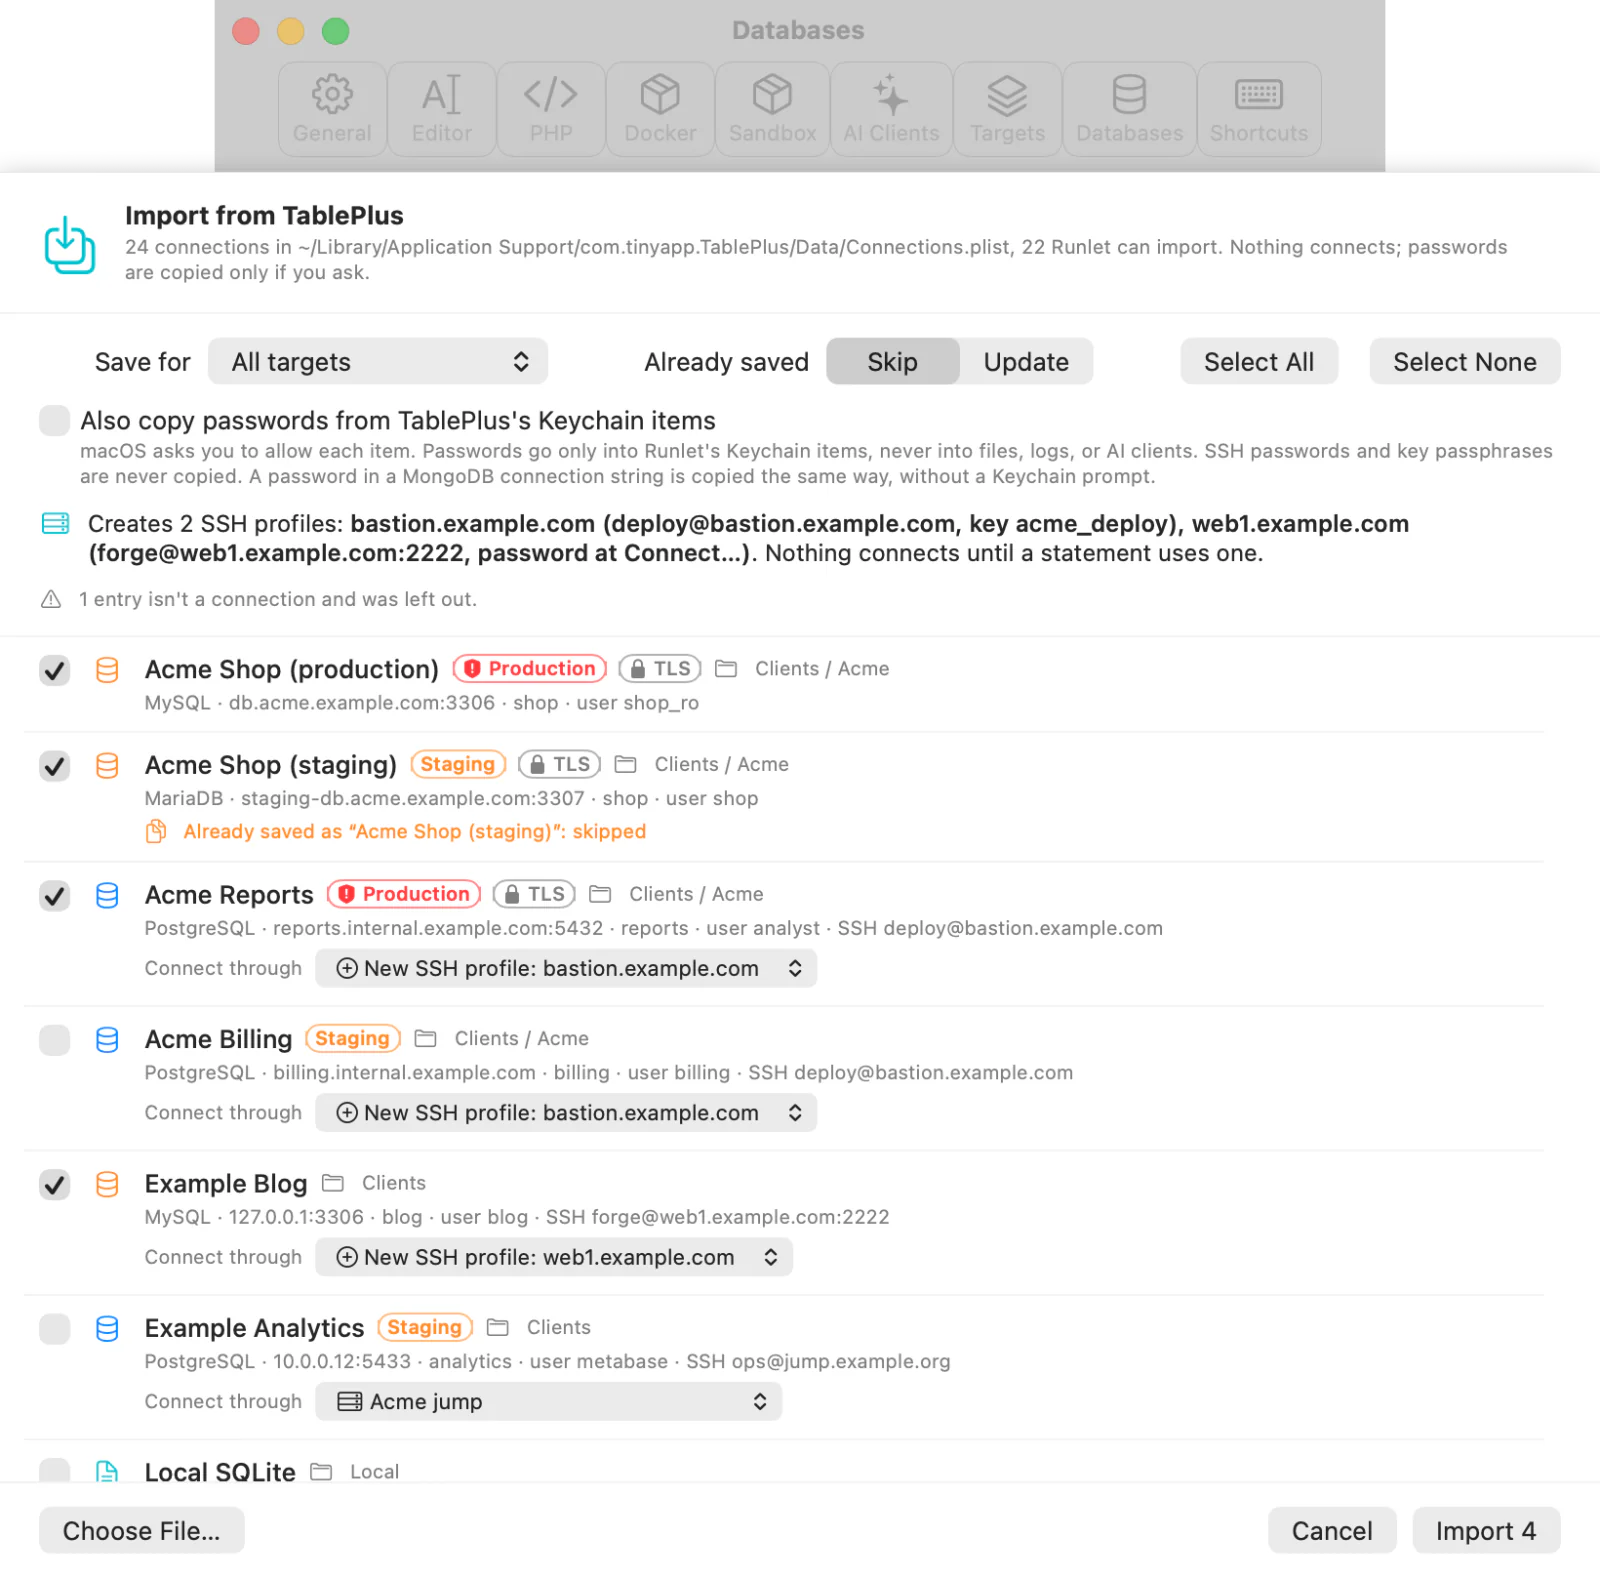
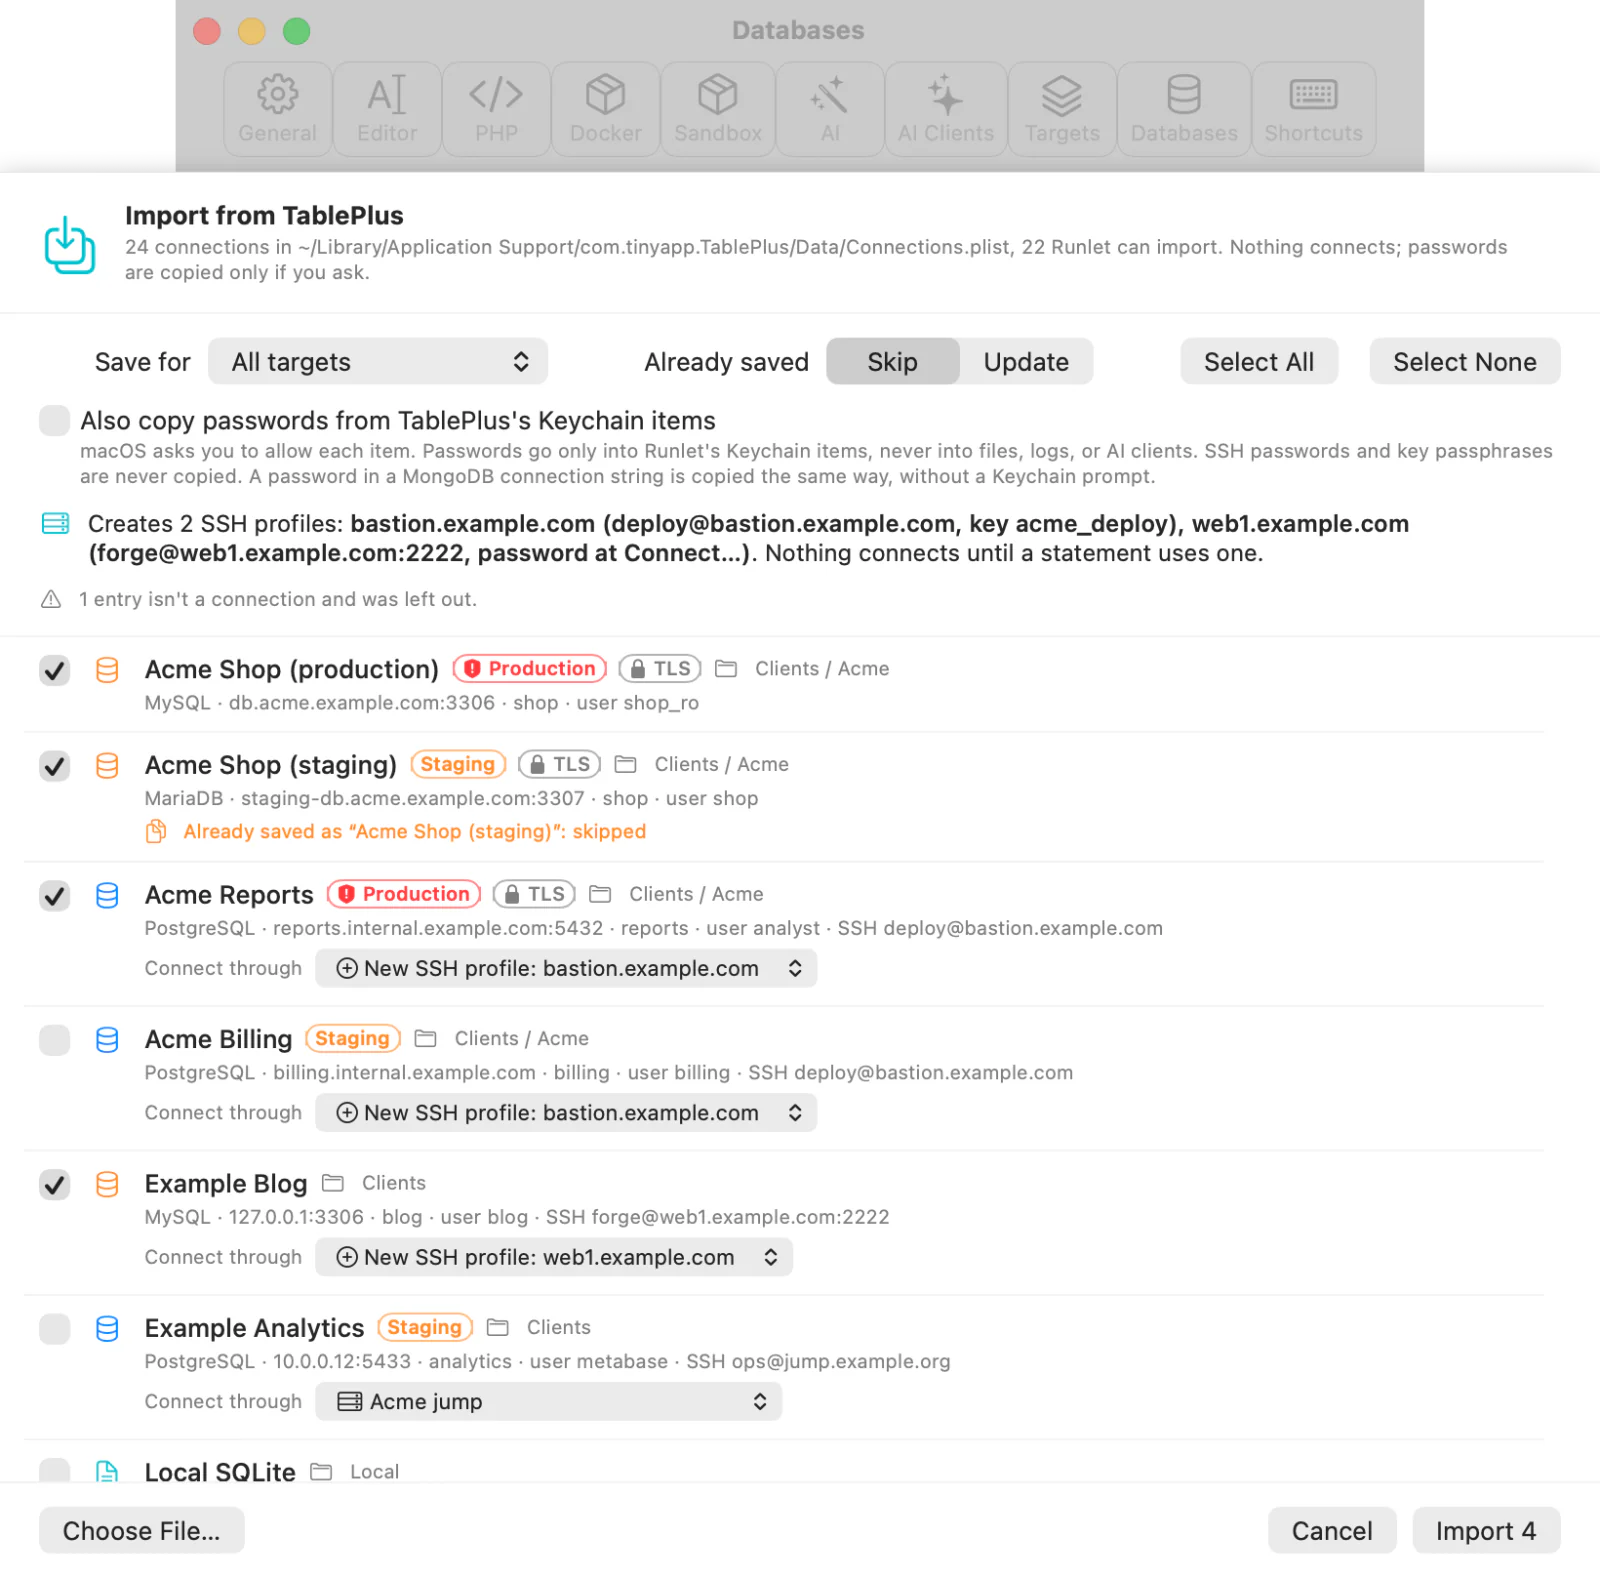
Docs: AI Assistance's screenshots from the AI stand-in, and the Settings shots at the window's new width (#368, #44)

diff --git a/scripts/docs-screenshots.py b/scripts/docs-screenshots.py
@@ -26,7 +26,9 @@ config; their one SSH profile (a production target, for the confirmation sheet a
 is never run. Fixture shots reach the containers through Tests/Fixtures/docker/fixtures-only-docker
 and the fixture SSH host through a throwaway key and config; the script seeds Redis database 11
 and the MongoDB database docs_shop with example data, and removes them, the key, and the SSH
-connections when it ends (PREPARE).
+connections when it ends (PREPARE). The AI Assistance shots talk to the AI providers' stand-in
+(scripts/ai_stub.py: Tests/Fixtures/ai-stub/router.php under `php -S` on 127.0.0.1, which the
+shot starts and stops), never to Anthropic or OpenAI, with a made-up key kept in memory.
 
 Needs Xcode, PHP, cwebp (brew install webp), scripts/build-sandbox.sh to have run, and a Retina
 screen: the `shot` step moves each hidden window there, at its shot's size, before drawing it, and
@@ -51,6 +53,8 @@ import threading
 import time
 from typing import Callable
 import uuid
+
+import ai_stub  # the AI providers' stand-in (#368), shared with scripts/ai-screenshots.py
 
 ROOT = Path(__file__).resolve().parent.parent
 WORK = ROOT / "build" / "docs-shots"
@@ -159,10 +163,11 @@ class Shot:
     about: str = ""
     #: More environment variables for the launch; `{data}` is the shot's data folder.
     env: dict = field(default_factory=dict)
-    #: Started before the launch and stopped after it, such as a client the picture shows.
-    background: Callable[[], subprocess.Popen] | None = None
-    #: The tab Settings opens on (0 is General, 5 AI, 8 Databases, 9 Shortcuts): the launch arguments hold it, so
-    #: the `settings-tab` step can't switch tabs.
+    #: Started before the launch and stopped after it (`kill()`, `wait()`), such as a client the
+    #: picture shows, a local API, or the AI providers' stand-in.
+    background: Callable[[], subprocess.Popen | ai_stub.Stub] | None = None
+    #: The tab Settings opens on (0 is General, 5 AI, 8 Databases, 9 Shortcuts): the launch
+    #: arguments hold it, so the `settings-tab` step can't switch tabs. Settings is 640 points wide.
     settings_tab: int = 0
 
     @property
@@ -801,7 +806,7 @@ SHOTS: list[Shot] = [
     # Settings
     Shot("settings", "general", about="Settings ▸ General: Appearance, Running, and Notifications",
          tabs=[tab("Scratch", "")], window="General",
-         steps=["settings", "wait", "settings-tab:General", "wait", "frame:General=600x760", "wait"]),
+         steps=["settings", "wait", "settings-tab:General", "wait", "frame:General=640x760", "wait"]),
     # SSH (ssh.md): a profile in the Profiles window, with Keep the runner and compiled PHP on the server (#48).
     Shot("ssh", "profile-editor", about="An SSH profile in the Profiles window: the form, and Keep the runner and compiled PHP on the server",
          tabs=[tab("Scratch", "")], targets=SSH_PROFILE_TARGETS, window="Profiles",
@@ -809,8 +814,8 @@ SHOTS: list[Shot] = [
     Shot("run-notifications", "notifications", about="Settings ▸ General ▸ Notifications, allowed",
          tabs=[tab("Scratch", "")], window="General", settings={"notifyLongRuns": True, "longRunNotificationSeconds": 10},
          # Tall enough not to scroll (the toolbar would show the scrolled text), then the section only.
-         steps=["notifications:allowed", "settings", "wait", "settings-tab:General", "wait", "frame:General=600x1000", "wait"],
-         crop=(0, 462, 600, 228)),
+         steps=["notifications:allowed", "settings", "wait", "settings-tab:General", "wait", "frame:General=640x1000", "wait"],
+         crop=(0, 462, 640, 228)),
     # Quick Run (#25): the panel on its own, shown without the keyboard; the global shortcut is
     # never registered in these runs. `\n` in typed code is a newline, `\c` a comma.
     Shot("quick-run", "result", about="The Quick Run panel with a user in the Values view",
@@ -821,8 +826,49 @@ SHOTS: list[Shot] = [
          steps=["quick-run:open", "wait", f"quick-run:type:{QUICK_RUN_ERROR}", "quick-run:key:cmd+r", "quick-run-wait", "wait"]),
     Shot("settings", "quick-run-shortcut", about="Settings ▸ Shortcuts: Quick Run's global shortcut, on (never registered)",
          tabs=[tab("Scratch", "")], window="Shortcuts", settings={"quickRunHotKeyEnabled": True}, settings_tab=9,
-         steps=["settings", "wait", "frame:Shortcuts=600x520", "wait", "quick-run:hotkey-state"],
-         crop=(0, 0, 600, 158)),
+         steps=["settings", "wait", "frame:Shortcuts=640x520", "wait", "quick-run:hotkey-state"],
+         crop=(0, 0, 640, 158)),
+]
+
+# MARK: AI Assistance (#368, #44)
+#
+# Settings ▸ AI and Explain or Fix This Error, against the AI providers' stand-in on 127.0.0.1
+# (ai_stub.Stub: canned answers, never Anthropic or OpenAI) with a made-up key in memory. The tab
+# runs in the local project "shop" (a copy of the sandbox) with a class that throws, so the sheet
+# offers the source where it was thrown. The sheet shots draw the sheet alone (`@sheet`): the
+# error card behind it shows the project's full path.
+
+AI_SETTINGS_PORT = free_port()
+AI_FIX_PORT = free_port()
+
+
+def ai_stand_in(port: int, scenario: dict) -> Callable[[], ai_stub.Stub]:
+    """The stand-in for one shot, on its own port, so shots can run in parallel."""
+    return lambda: ai_stub.Stub(WORK / f"ai-stub-{port}", scenario, port=port)
+
+
+def ai_env(port: int) -> dict:
+    return {"RUNLET_AI_BASE_URL": f"http://127.0.0.1:{port}", "RUNLET_DEBUG_HOME": "{data}"}
+
+
+def ai_seed(data: Path, sandbox: Path) -> None:
+    shop_targets(data)
+    ai_stub.seed_project(data / "projects" / "shop")
+
+
+AI_EXPLAIN = [f"ai-key:anthropic={ai_stub.KEY}", "run", "wait-run", "wait", "ai-explain:card", "ai-wait:sheet", "wait"]
+
+SHOTS += [
+    Shot("ai", "settings", about="Settings ▸ AI: a saved Anthropic key, masked, after Test Key listed the models (the AI stand-in)",
+         tabs=[tab("Scratch", "")], window="AI", settings_tab=5, background=ai_stand_in(AI_SETTINGS_PORT, {}), env=ai_env(AI_SETTINGS_PORT),
+         steps=[f"ai-key:anthropic={ai_stub.KEY}", "ai-test:anthropic", "ai-wait:tested", "settings", "wait", "frame:AI=640x880", "wait", "ai-state"]),
+    Shot("ai", "explain-disclosure", about="Explain or Fix before sending: the error, the tab's code, and the source where it was thrown",
+         tabs=[tab("Invoice", ai_stub.INVOICE, target=SHOP_PROJECT)], frame="1200x900", seed=ai_seed, window="sheet",
+         env=ai_env(AI_FIX_PORT), steps=AI_EXPLAIN + ["ai-state"]),
+    Shot("ai", "explain-fix", about="Explain or Fix's answer, with its proposed fix as a diff and Apply Fix (the AI stand-in)",
+         tabs=[tab("Invoice", ai_stub.INVOICE, target=SHOP_PROJECT)], frame="1200x900", seed=ai_seed, window="sheet",
+         background=ai_stand_in(AI_FIX_PORT, ai_stub.QUICK), env=ai_env(AI_FIX_PORT),
+         steps=AI_EXPLAIN + ["ai-send", "ai-wait:done:30", "wait", "ai-state"]),
 ]
 
 # MARK: Fixture-backed shots (#304)
@@ -1226,7 +1272,7 @@ SHOTS += [
               "RUNLET_DEBUG_TABLEPLUS_PATH": "~/Library/Application Support/com.tinyapp.TablePlus/Data/Connections.plist"},
          steps=["ssh-add:Acme jump|ops@jump.example.org|/srv/app|staging",
                 "db-new:Acme Shop (staging)|mysql|staging-db.acme.example.com|3307|shop|shop|",
-                "settings", "wait", "wait", "frame:Databases=600x780", "wait",
+                "settings", "wait", "wait", "frame:Databases=640x780", "wait",
                 "tableplus-open", "wait", "wait", "tableplus-select:Acme Shop (production)", "tableplus-select:Acme Shop (staging)",
                 "tableplus-select:Acme Reports", "tableplus-select:Example Blog", "wait", "tableplus-state"]),
     Shot("connections", "connection-manager", needs="ssh+postgres",
@@ -1253,8 +1299,8 @@ SHOTS += [
     # Run notifications: notifications off, as Debug builds' logging notifier reports it.
     Shot("run-notifications", "notifications-off", about="Settings ▸ General ▸ Notifications, off for Runlet",
          tabs=[tab("Scratch", "")], window="General", settings={"notifyLongRuns": True, "longRunNotificationSeconds": 10},
-         steps=["notifications:denied", "settings", "wait", "settings-tab:General", "wait", "frame:General=600x1000", "wait"],
-         crop=(0, 462, 600, 262)),
+         steps=["notifications:denied", "settings", "wait", "settings-tab:General", "wait", "frame:General=640x1000", "wait"],
+         crop=(0, 462, 640, 262)),
     # Benchmarks: Profile Run needs Excimer, which the fixture's `profiler` container has.
     Shot("benchmarks", "profile-run", needs="profiler", about="Profile Run's flame graph and hottest functions",
          tabs=[tab("Profile", PROFILE, target=DOCKER_TARGET)], frame="1200x640", settings=DOCKER_SETTINGS,

diff --git a/docs/ai.md b/docs/ai.md
@@ -19,7 +19,8 @@ To add a key:
 
 **Send to** at the top of the pane picks the provider that AI features use. You can save a key for each and switch between them.
 
-<!-- screenshot: Settings ▸ AI with a saved Anthropic key, masked, after Test Key -->
+![Settings ▸ AI with a saved Anthropic key shown masked, a note that the key works, the model for each provider, and the privacy rules](screenshots/ai/settings-light.webp#gh-light-mode-only)
+![Settings ▸ AI with a saved Anthropic key shown masked, a note that the key works, the model for each provider, and the privacy rules](screenshots/ai/settings-dark.webp#gh-dark-mode-only)
 
 ### Where Keys Are Kept
 
@@ -51,7 +52,8 @@ Runlet asks OpenAI not to keep the response for later retrieval. Each provider's
 
 When a run fails, the error card has an **Explain or Fix…** button. You can also choose **Run ▸ Explain or Fix Error…** for the tab's last error, or find it in Open Anything.
 
-<!-- screenshot: the Explain or Fix sheet before sending: the error, the tab's code, and the source where it was thrown, each with a checkbox -->
+![The Explain or Fix sheet before sending: the error and the tab's code checked, the source where it was thrown unchecked, where the request goes, and Send to Anthropic](screenshots/ai/explain-disclosure-light.webp#gh-light-mode-only)
+![The Explain or Fix sheet before sending: the error and the tab's code checked, the source where it was thrown unchecked, where the request goes, and Send to Anthropic](screenshots/ai/explain-disclosure-dark.webp#gh-dark-mode-only)
 
 The sheet first shows what it would send, in three parts:
 
@@ -69,7 +71,8 @@ The answer appears as the model writes it. **Stop** (<kbd>⌘</kbd><kbd>.</kbd>)
 
 When changing your tab's code fixes the error, the answer ends with a proposed fix, shown as a diff of your tab: removed lines in red, added lines in green.
 
-<!-- screenshot: the answer with its proposed fix as a diff, and the Apply Fix button -->
+![Anthropic's explanation of the error, with the proposed fix as a diff of the tab and the Apply Fix button](screenshots/ai/explain-fix-light.webp#gh-light-mode-only)
+![Anthropic's explanation of the error, with the proposed fix as a diff of the tab and the Apply Fix button](screenshots/ai/explain-fix-dark.webp#gh-dark-mode-only)
 
 - **Apply Fix** replaces the tab's code with the fix, as one undoable edit. Nothing runs, and [sandbox auto-run](sandbox-auto-run.md) turns off for the tab.
 - **Undo Apply Fix**, or **Edit ▸ Undo** in the editor, puts the old code back.
@@ -80,7 +83,7 @@ When changing your tab's code fixes the error, the answer ends with a proposed f
 
 ### Without a Key
 
-Without a key for the chosen provider, the sheet still shows what it would send, says that no key is saved, and offers **Open AI Settings…**. **Send** stays off until you add one.
+Without a key for the chosen provider, the sheet still shows what it would send, says that no key is saved, and offers **Open AI Settings…**, which opens **Settings ▸ AI** and leaves the sheet where it is. **Send** stays off until you save a key.
 
 ## When Something Goes Wrong
 
@@ -118,5 +121,7 @@ AI providers are [#368](https://github.com/filipac/runlet/issues/368); Explain o
 - **The defaults** are each provider's own recommended starting model. A cheaper default would be a silent downgrade; the choice is the user's.
 - **Keys:** the Keychain service `dev.runlet.Runlet.ai` (with a hash of the data folder for a scratch `RUNLET_DATA_DIR`), one fixed account per provider (`AIProvider.keychainAccount`), labelled with the masked key so Settings can show it without reading the secret. The key is a `SensitiveString`, goes only into a request header, and is scrubbed from provider messages; a 401's message isn't kept at all. Settings files hold only `aiProvider`, `aiAnthropicModel`, and `aiOpenAIModel`, and older files load with the defaults. Debug builds with a scratch `RUNLET_DATA_DIR` keep keys in memory (`RUNLET_CREDENTIALS=keychain` overrides).
 - **Consent:** `AIClient.stream` and `complete` refuse a disclosure that differs from what `AIConsent` approved, or that has nothing checked (`AIError.notConfirmed`), before sending anything. Only a Send button's action makes a consent.
-- **Debug builds only:** `RUNLET_AI_BASE_URL` sends both providers' requests to another base URL, such as the stand-in `Tests/Fixtures/ai-stub/router.php` under `php -S 127.0.0.1:<port>`, which streams canned answers shaped like both providers' events (`RUNLET_AI_STUB_SCENARIO`, `RUNLET_AI_STUB_LOG`). Release builds ignore the variable. The debug steps are in `Runlet/App/AIDebugSteps.swift`; `scripts/ai-screenshots.py` checks the whole flow against the stand-in and takes the pull request's screenshots.
+- **Debug builds only:** `RUNLET_AI_BASE_URL` sends both providers' requests to another base URL, such as the stand-in `Tests/Fixtures/ai-stub/router.php` under `php -S 127.0.0.1:<port>`, which streams canned answers shaped like both providers' events (`RUNLET_AI_STUB_SCENARIO`, `RUNLET_AI_STUB_LOG`). Release builds ignore the variable. The debug steps are in `Runlet/App/AIDebugSteps.swift`. `scripts/ai_stub.py` starts the stand-in and holds the scratch data both screenshot scripts use: `scripts/ai-screenshots.py` checks the whole flow against it and takes the pull request's screenshots, and `scripts/docs-screenshots.py ai` takes this page's (the sheet alone, with `shot:<name>@sheet`, since the error card behind it shows the project's full path).
+- **The answer and the fix:** the instructions ask for the whole corrected code in a `runlet-fix` block, and to refer to it as the proposed fix below rather than write the code twice. The sheet takes the block out of the answer and shows it as the diff; a block in the middle of the answer leaves a note ("The proposed fix is below.") in its place (`AIAnswer.Block.fixMoved`).
+- **Opening Settings** goes through `SettingsWindow.open(selecting:)`, which chooses the app menu's Settings… item as ⌘, does: `NSApp.sendAction(showSettingsWindow:)` opens nothing on current macOS, with or without a sheet in front. The palette's Settings…, the mail chip's and the editor's links, and ⌥⌘, use it too.
 - **Tests** make no network calls and use made-up keys: `AIProviderTests`, `AIRequestTests`, `AIStreamTests`, `AIErrorTests`, `AIClientTests` (a fake transport), `AIPrivacyTests`, and `ExplainErrorTests` in `RunletCoreTests`; `AIStubTests` in `RunletExecutionTests` runs the real `URLSession` transport against the stand-in (streaming, Stop, failures, refusals). `RUNLET_TEST_KEYCHAIN=1` adds a round trip through the login keychain under a test-only service, which it deletes.

diff --git a/docs/writing-docs.md b/docs/writing-docs.md
@@ -132,6 +132,7 @@ A few shots need no fixture, and no real data either:
 
 - **Import from TablePlus** reads a made-up export (`Tests/Fixtures/tableplus`, copied into the shot's data, through `RUNLET_TABLEPLUS_DIR`), and shows TablePlus's usual path for it (`RUNLET_DEBUG_TABLEPLUS_PATH`).
 - **The AI client approval sheet** comes from a made-up client inside the app (the `mcp-ask` step), with no `runlet mcp` process, and is never answered.
+- **AI Assistance** talks to the AI providers' stand-in on 127.0.0.1 (`scripts/ai_stub.py`), which the shot starts and stops, with a made-up key kept in memory: never Anthropic or OpenAI. Its sheets are drawn alone (`shot:<name>@sheet`), without the window behind them.
 - **"Notifications are off"** is what Debug builds report when a step tells them to (`notifications:denied`); macOS isn't asked, and its settings don't change.
 - **A local project's folder** on a tab card reads `~/projects/shop`: `RUNLET_DEBUG_HOME` points `~` at the shot's data folder.
 
